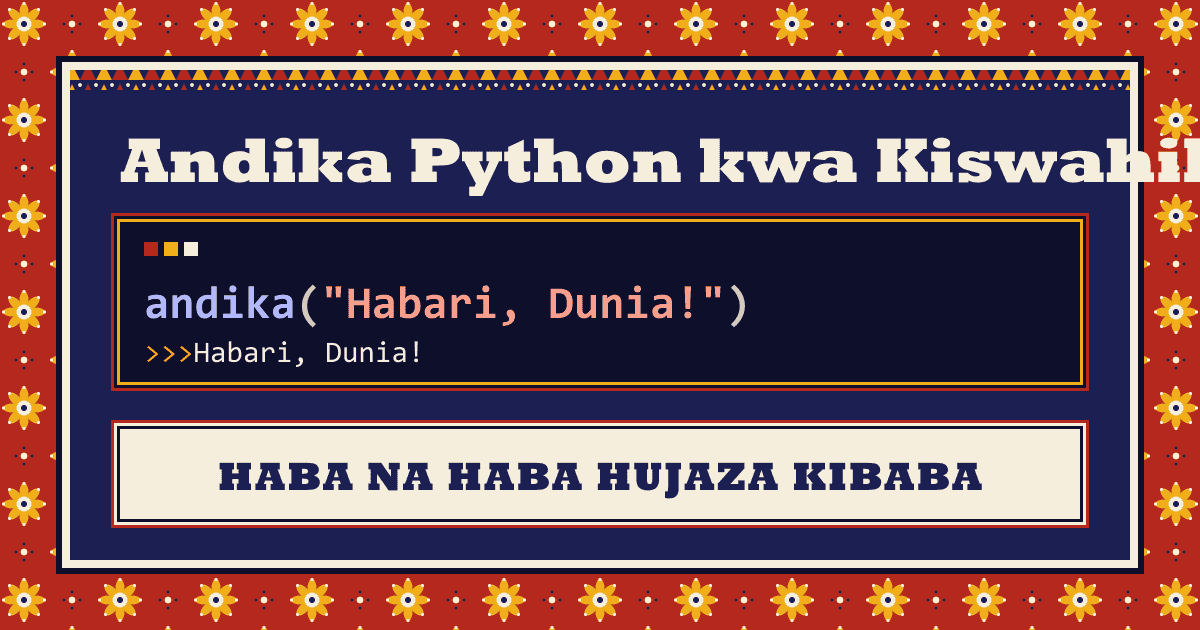
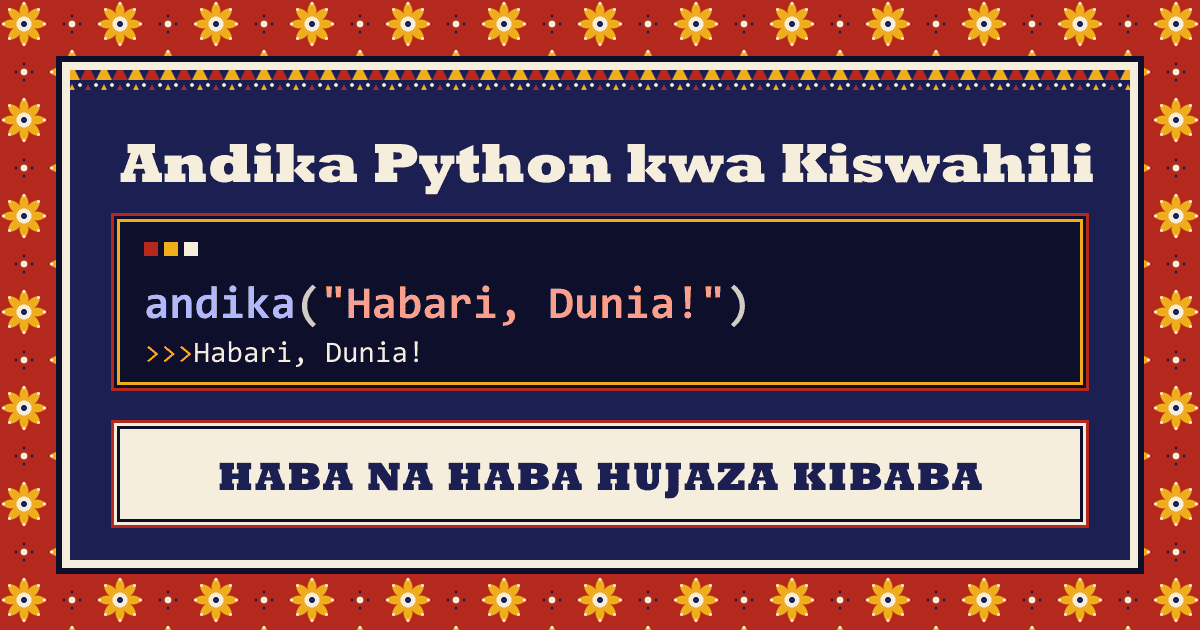
Preload display fonts, fit the preview headline, truthful phone screenshots
Preloading the two fonts used above the fold stops the heading reflowing
when they arrive. Footer links were 43 px tall; they are now 44. The
screenshot script scrolls the editor into view once so line numbers are
laid out as a visitor sees them. The sandbox gets a test that server
secrets are not passed to the child process.

Changed region(s): [[0.0925, 0.2111, 1.0, 0.3317], [0.2775, 0.4524, 0.3083, 0.4825]]

diff --git a/frontend/index.html b/frontend/index.html
@@ -6,6 +6,8 @@
     <title>Pyswahili: Python kwa Kiswahili</title>
     <meta name="description" content="Andika na uendeshe Python kwa maneno ya Kiswahili ndani ya kivinjari chako. Write and run Python with Swahili keywords in your browser: 20 lessons, practice tasks and a keyword dictionary." />
     <meta name="theme-color" content="#1c1f52" />
+    <link rel="preload" href="/src/fonts/alfa-slab-one-latin-400-normal.woff2" as="font" type="font/woff2" crossorigin />
+    <link rel="preload" href="/src/fonts/atkinson-hyperlegible-latin-400-normal.woff2" as="font" type="font/woff2" crossorigin />
     <link rel="icon" href="%BASE_URL%favicon.svg" type="image/svg+xml" />
     <link rel="apple-touch-icon" href="%BASE_URL%icon-180.png" />
     <meta property="og:type" content="website" />

diff --git a/frontend/src/styles/app.css b/frontend/src/styles/app.css
@@ -1018,7 +1018,7 @@ main:focus {
 .optional a,
 .foot a {
   display: inline-block;
-  padding: 10px 0;
+  padding: 11px 0;
 }
 
 .assistant {
